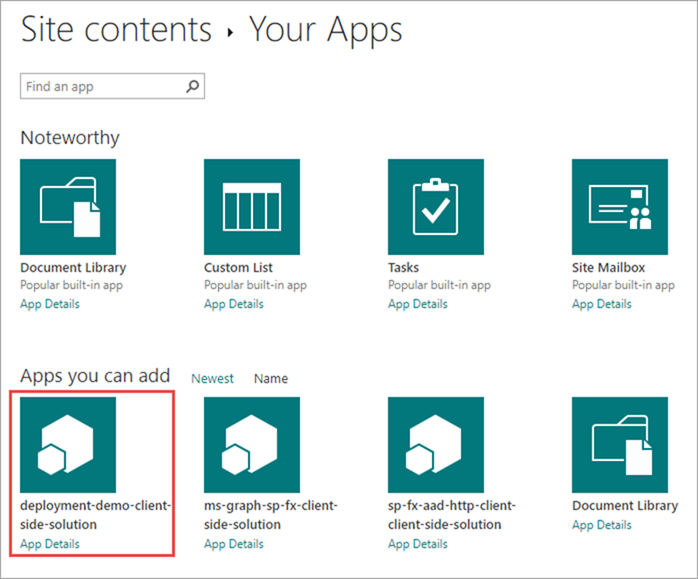
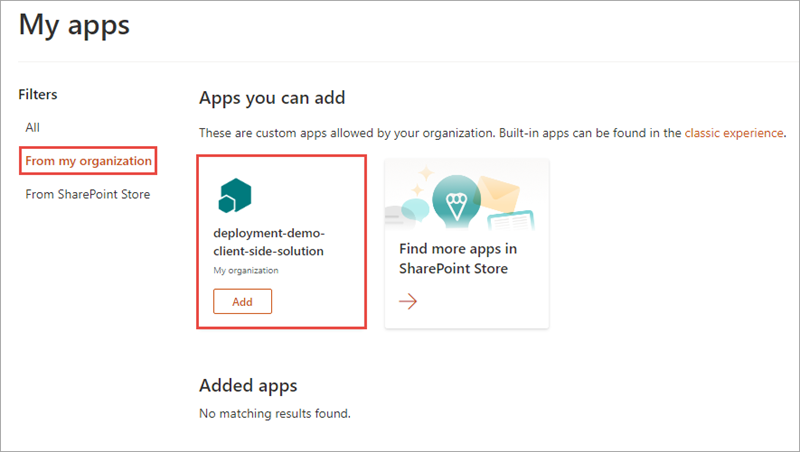
FY22Q1 refresh - sharepoint-spfx-deployment
- run through all exercise steps in associated MSLearn module to validate good working order
- updated steps & fixed typos where necessary
- updated slides where necessary
- update code samples to reflect MSLearn HOL exercise refresh & updates
- any & all users/names/company names/pictures/IDs are not real people/tenants... all are from M365 demo tenants provided by Microsoft

diff --git a/learn-m365-pr/m365-developer/sharepoint-spfx-deployment/includes/3-exercise-deploy-tenant-app-catalog.md b/learn-m365-pr/m365-developer/sharepoint-spfx-deployment/includes/3-exercise-deploy-tenant-app-catalog.md
@@ -67,13 +67,11 @@ From the **New** menu, select **App**.
 
 ![Screenshot selecting to create a new app](../media/03-deploy-step-02.png)
 
-Locate the solution you previously deployed and select it.
+In the filters, select **From my organization**.
+
+Select the **Add** button in the **deployment-demo-client-side-solution** tile to add your web part.
 
 ![Screenshot creating a new app](../media/03-deploy-step-03.png)
-
-SharePoint will start to install the application. At first it will be grayed out, but after a few moments you should see it listed as in the following screen capture:
-
-![Screenshot of created application](../media/03-deploy-step-04.png)
 
 ## Add the web part to a page
 

diff --git a/learn-m365-pr/m365-developer/sharepoint-spfx-deployment/includes/5-exercise-deploy-site-collection-app-catalog.md b/learn-m365-pr/m365-developer/sharepoint-spfx-deployment/includes/5-exercise-deploy-site-collection-app-catalog.md
@@ -20,7 +20,7 @@ PS> Connect-SPOService -Url https://contoso-admin.sharepoint.com
 PS> Add-SPOSiteCollectionAppCatalog -Site https://contoso.sharepoint.com/sites/dev01
 ```
 
-Instead, you can use the [CLI for Microsoft 365](https://pnp.github.io/office365-cli/). This is a good option when your development environment isn't Windows.
+You can also use the [CLI for Microsoft 365](https://pnp.github.io/cli-microsoft365). This is a good option when your development environment isn't Windows.
 
 ```console
 # login as a tenant admin to the SharePoint Online tenant admin site

diff --git a/learn-m365-pr/m365-developer/sharepoint-spfx-deployment/includes/7-exercise-project-component-versions.md b/learn-m365-pr/m365-developer/sharepoint-spfx-deployment/includes/7-exercise-project-component-versions.md
@@ -98,8 +98,6 @@ Select the web part icon button to open the list of available web parts:
 
 ![Screenshot of adding the web part to the page](../media/03-deploy-step-05.png)
 
-Select the expand icon, a diagonal line with two arrows in the top-right corner, to expand the web part toolbox.
-
 Scroll to the bottom and notice the new web part isn't listed. This is because web parts are added to the web part gallery by activating a feature.
 
 > [!NOTE]
